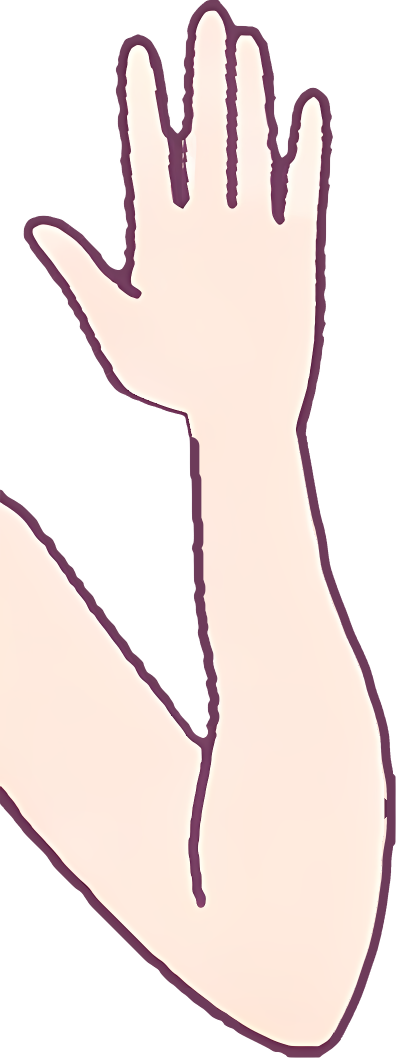
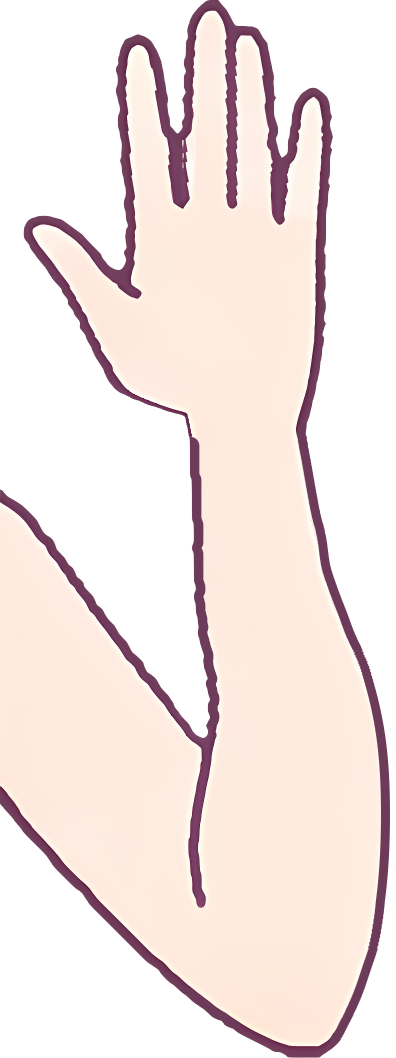
v3: redraw clipped outer edge on wave arm frame 0

Changed region(s): [[0.9394, 0.655, 1.0, 0.9045], [0.9091, 0.6238, 0.9394, 0.655]]

diff --git a/tools/v3/fix_wave_arm0_edge.py b/tools/v3/fix_wave_arm0_edge.py
@@ -1,0 +1,28 @@
+"""흔들기 팔 0번 프레임: 오른쪽 바깥선이 이미지 경계에 잘려 생긴 평평한 꺾임을 부드러운 곡선으로 다시 그린다.
+사용: python3 fix_wave_arm0_edge.py PARTS_DIR"""
+import sys, numpy as np
+from PIL import Image
+p = f'{sys.argv[1]}/body_wave_arm_0.png'
+a = np.array(Image.open(p).convert('RGBA')).astype(float); H, W = a.shape[:2]
+LINE = np.array([109, 59, 90.]); 
+ys = list(range(600, 770)) + list(range(850, 960))
+ex = [np.where(a[y, :, 3] > 128)[0].max() for y in ys]
+c = np.polyfit(ys, ex, 3)
+skin = np.median(a[800, 330:360, :3], 0)
+yy = np.arange(640, 960); tr = np.polyval(c, yy); yc = yy[tr.argmax()]
+A = max(0, tr.max() - (W - 6))
+for y in range(650, 950):
+    e = np.polyval(c, y) - A * np.exp(-((y - yc) / 90.0) ** 2)
+    w = min(1, (y - 650) / 50, (950 - y) / 50)  # 양 끝은 원래 윤곽선으로 부드럽게 이어 붙임
+    e = w * e + (1 - w) * (np.where(a[y, :, 3] > 128)[0].max() + 0.5)
+    for x in range(int(e) - 26, W):
+        d = e - (x + 0.5)  # 바깥선까지 거리
+        if d < -0.5: a[y, x, 3] = 0; continue
+        cov = min(1, d + 0.5)
+        if d < 8.5: col = LINE
+        elif d < 9.5: col = LINE * (9.5 - d) + skin * (d - 8.5)
+        else:
+            if (a[y, x, :3].sum() < 450): col = skin
+            else: continue
+        a[y, x, :3] = col; a[y, x, 3] = 255 * cov
+Image.fromarray(a.clip(0, 255).astype(np.uint8)).save(p); print('ok', c)
